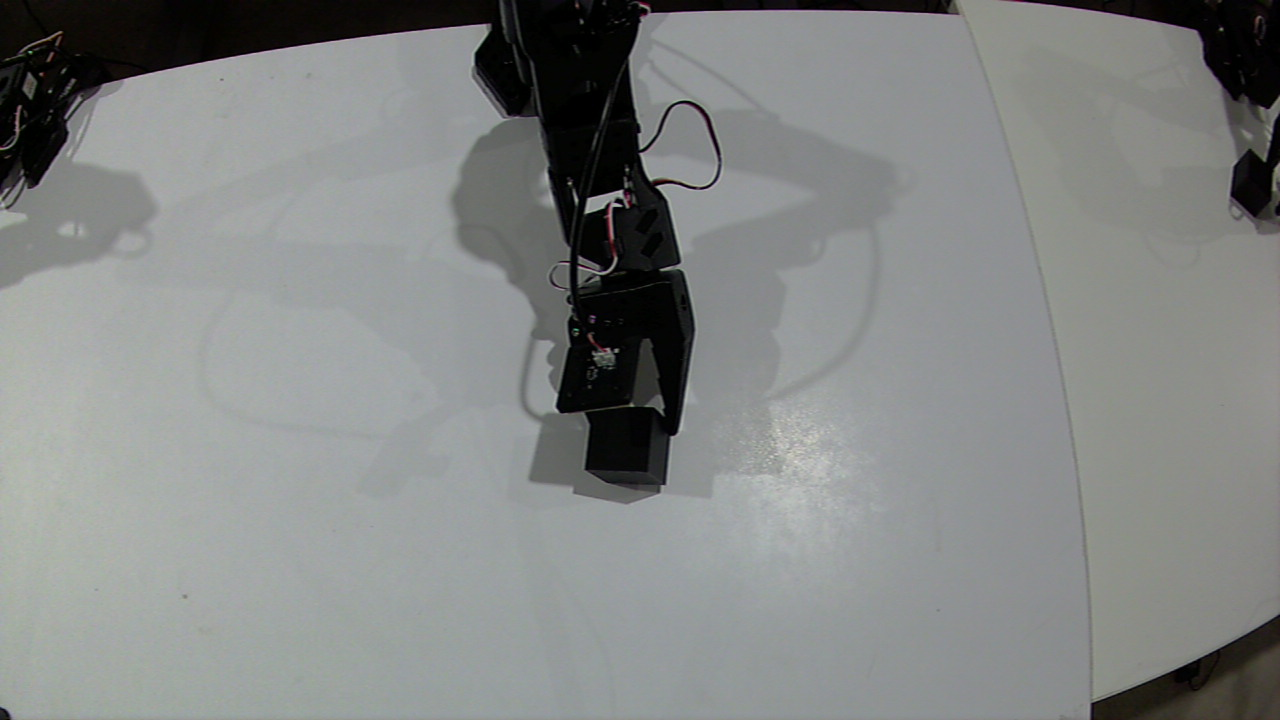
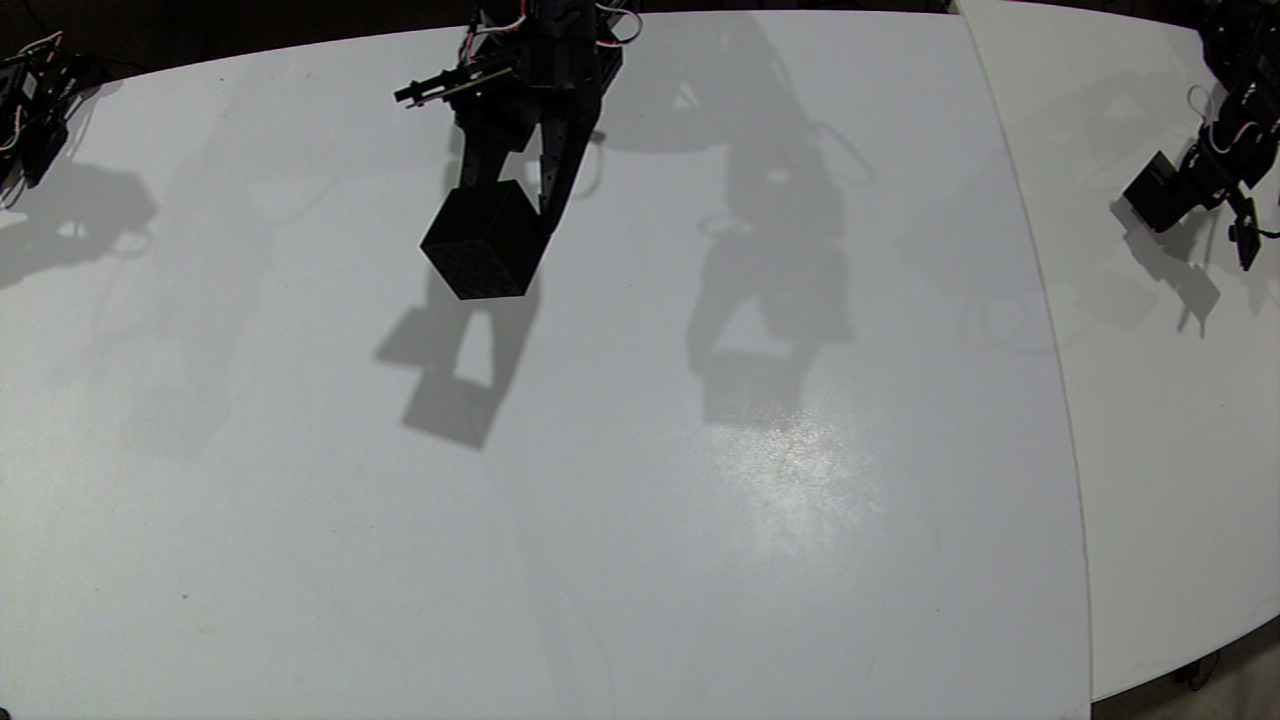
Update tools for arm-007__gpt-6-astra__grasp-cube
{"agent_id": "arm-007__gpt-6-astra__grasp-cube", "designation": "arm-007", "identity_version": 2, "model": "gpt-6-astra", "provider": "codex", "task_definition": {"description": "Start episode, pickup the black cube, bring black cube to home position, confirm successful grasp, stop episode, return object to new position, return home, repeat", "id": "grasp-cube", "success_criteria": ["successful episode coverage across the entire workspace", "achieve at least 50 successful episodes an hour"], "version": 2}, "task_id": "grasp-cube", "task_sha256": "e6c8adbb1562fdc6af3405e2e618046b110e27856c520c9f5cd329c258fb3818", "task_version": 2, "tools_sha256": "f752bc2453fc6ccfc5bfb5d9e13189362dc316559a7b7eed6850f123d29d5cf8"}

Changed region(s): [[0.2812, 0.0, 0.625, 0.7028], [0.8438, 0.1222, 1.0, 0.4583]]

diff --git a/agents/arm-007__gpt-6-astra__grasp-cube/cube_cycles.py b/agents/arm-007__gpt-6-astra__grasp-cube/cube_cycles.py
@@ -60,12 +60,22 @@ def run(n):
    for i in range(n):
     ep=recording.start_recording('Pick black cube, bring to home, visually confirm retained grasp');active=True
     move(b,above(current));move(b,current,1.5)
-    contact=grip(b)
-    move(b,above(current),3)
+    pickup=current
+    try:contact=grip(b)
+    except RuntimeError:
+     p=b.read('Present_Position','gripper')
+     img,_=read_frame('wrist')
+     forward_dark=float(np.mean(cv2.cvtColor(img[200:450,700:1000],cv2.COLOR_BGR2GRAY)<65))
+     if not (p<10 and forward_dark>.7 and os.environ.get('CUBE_PITCH')=='35'):raise
+     if any(c.fault_bits(b,j) for j in c.JOINTS):raise
+     move(b,{'gripper':55},1.3);move(b,above(current),2)
+     pickup=pose(current['shoulder_pan'],current['elbow_flex']-10)
+     move(b,above(pickup));move(b,pickup,2);contact=grip(b)
+    move(b,above(pickup),3)
     # Retain the seated closing target through lift and home.
     home(b)
     ok,evidence=held(b);snapshot()
-    receipt=recording.stop_recording(ok,json.dumps(dict(source_pose=current,contact=contact,home_confirm=evidence)));active=False
+    receipt=recording.stop_recording(ok,json.dumps(dict(source_pose=pickup,contact=contact,home_confirm=evidence)));active=False
     emit(event='episode',success=ok,receipt=receipt,evidence=evidence)
     if not ok:raise RuntimeError('Grasp not verified at home')
     target=pose(*grid[i%len(grid)])
